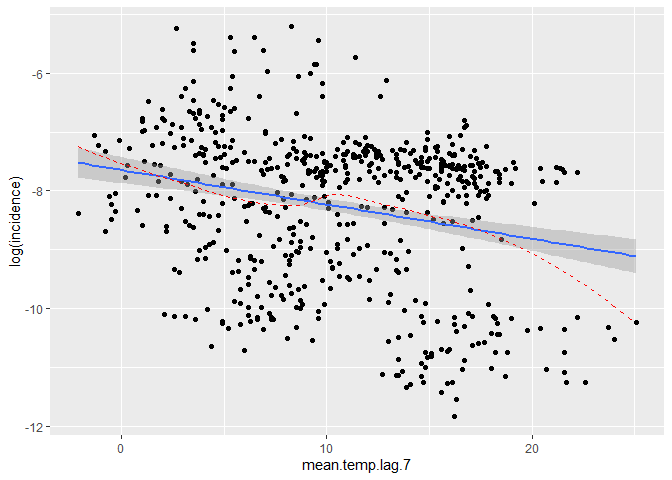
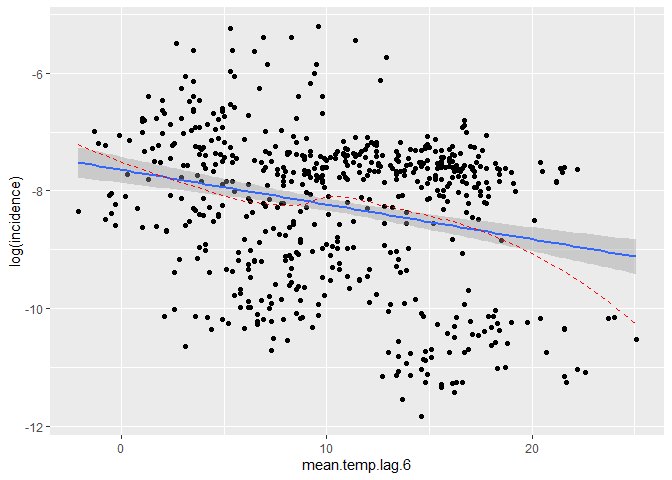
update lags and included first model comparisons

diff --git a/README.md b/README.md
@@ -273,7 +273,7 @@ env.vars <- c("rain", "mean.temp", "min.temp", "max.temp")
 
 for (i in 1:length(env.vars)) {
   
-  lags <- c(2, 7, 10, 28)
+  lags <- c(2, 6, 14)
   
   for (j in 1:length(lags)) {
     
@@ -294,28 +294,60 @@ this against the different variables.
 
 **Rain**
 
-<img src="README_files/figure-gfm/rain_vs_log_cases-1.png" width="40%" /><img src="README_files/figure-gfm/rain_vs_log_cases-2.png" width="40%" /><img src="README_files/figure-gfm/rain_vs_log_cases-3.png" width="40%" /><img src="README_files/figure-gfm/rain_vs_log_cases-4.png" width="40%" /><img src="README_files/figure-gfm/rain_vs_log_cases-5.png" width="40%" />
+<img src="README_files/figure-gfm/rain_vs_log_cases-1.png" width="40%" /><img src="README_files/figure-gfm/rain_vs_log_cases-2.png" width="40%" /><img src="README_files/figure-gfm/rain_vs_log_cases-3.png" width="40%" /><img src="README_files/figure-gfm/rain_vs_log_cases-4.png" width="40%" />
 
 No clear correlation
 
 **Mean Temperature**
 
-<img src="README_files/figure-gfm/mean.temp_vs_log_cases-1.png" width="40%" /><img src="README_files/figure-gfm/mean.temp_vs_log_cases-2.png" width="40%" /><img src="README_files/figure-gfm/mean.temp_vs_log_cases-3.png" width="40%" /><img src="README_files/figure-gfm/mean.temp_vs_log_cases-4.png" width="40%" /><img src="README_files/figure-gfm/mean.temp_vs_log_cases-5.png" width="40%" />
+<img src="README_files/figure-gfm/mean.temp_vs_log_cases-1.png" width="40%" /><img src="README_files/figure-gfm/mean.temp_vs_log_cases-2.png" width="40%" /><img src="README_files/figure-gfm/mean.temp_vs_log_cases-3.png" width="40%" /><img src="README_files/figure-gfm/mean.temp_vs_log_cases-4.png" width="40%" />
 
-Some possible correlation, maybe stronger at lag 2, lag 7 and lag
-10.Possible spline effect.
+Some possible correlation, maybe stronger at lag 2, lag 6 and lag
+14.Possible spline effect.
 
 **Minimum temperature**
 
-<img src="README_files/figure-gfm/min.temp_vs_log_cases-1.png" width="40%" /><img src="README_files/figure-gfm/min.temp_vs_log_cases-2.png" width="40%" /><img src="README_files/figure-gfm/min.temp_vs_log_cases-3.png" width="40%" /><img src="README_files/figure-gfm/min.temp_vs_log_cases-4.png" width="40%" /><img src="README_files/figure-gfm/min.temp_vs_log_cases-5.png" width="40%" />
+<img src="README_files/figure-gfm/min.temp_vs_log_cases-1.png" width="40%" /><img src="README_files/figure-gfm/min.temp_vs_log_cases-2.png" width="40%" /><img src="README_files/figure-gfm/min.temp_vs_log_cases-3.png" width="40%" /><img src="README_files/figure-gfm/min.temp_vs_log_cases-4.png" width="40%" />
 
 Very weak correlation, if any at all, but some possible spline effect
 after approx min.temp = 12. This is particularly true in no lag, lag 2,
-lag 7 and lag 10.
+lag 6 and lag 14.
 
 **Maximum temperature**
 
-<img src="README_files/figure-gfm/max.temp_vs_log_cases-1.png" width="40%" /><img src="README_files/figure-gfm/max.temp_vs_log_cases-2.png" width="40%" /><img src="README_files/figure-gfm/max.temp_vs_log_cases-3.png" width="40%" /><img src="README_files/figure-gfm/max.temp_vs_log_cases-4.png" width="40%" /><img src="README_files/figure-gfm/max.temp_vs_log_cases-5.png" width="40%" />
+<img src="README_files/figure-gfm/max.temp_vs_log_cases-1.png" width="40%" /><img src="README_files/figure-gfm/max.temp_vs_log_cases-2.png" width="40%" /><img src="README_files/figure-gfm/max.temp_vs_log_cases-3.png" width="40%" /><img src="README_files/figure-gfm/max.temp_vs_log_cases-4.png" width="40%" />
 
 Some correlation. Plots show an interesting pocket where no data is
 found.
+
+## Linear regression models
+
+To compare the effects of the different environmental variables, I used
+a linear regression model to estimate the effects. In this model, I
+accounted for the effects of other variables, which included:
+
+-   Temporal pattern of covid incidence
+-   Lockdown periods
+-   2nd and 3rd vaccination numbers
+
+I started by including each environmental variable at a time. I compared
+the p-value for each coefficient and the AIC value for each model.
+
+| env.var          | p.value | signif |      aic |
+|:-----------------|--------:|:-------|---------:|
+| rain             |   0.222 | \-     | 1849.329 |
+| rain.lag.2       |   0.217 | \-     | 1849.295 |
+| rain.lag.6       |   0.105 | \-     | 1848.172 |
+| rain.lag.14      |   0.232 | \-     | 1849.391 |
+| mean.temp        |   0.000 | \*\*\* | 1835.321 |
+| mean.temp.lag.2  |   0.000 | \*\*\* | 1831.617 |
+| mean.temp.lag.6  |   0.000 | \*\*\* | 1825.896 |
+| mean.temp.lag.14 |   0.000 | \*\*\* | 1834.331 |
+| min.temp         |   0.005 | \*\*   | 1843.020 |
+| min.temp.lag.2   |   0.001 | \*\*   | 1840.391 |
+| min.temp.lag.6   |   0.000 | \*\*\* | 1837.825 |
+| min.temp.lag.14  |   0.012 | \*     | 1844.440 |
+| max.temp         |   0.000 | \*\*\* | 1829.615 |
+| max.temp.lag.2   |   0.000 | \*\*\* | 1825.803 |
+| max.temp.lag.6   |   0.000 | \*\*\* | 1817.637 |
+| max.temp.lag.14  |   0.000 | \*\*\* | 1825.876 |
